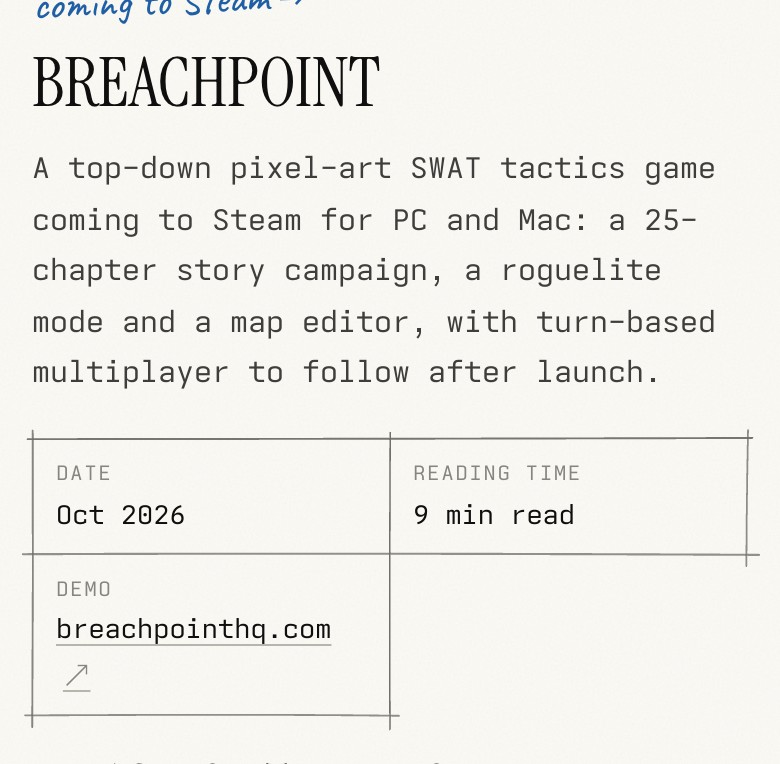
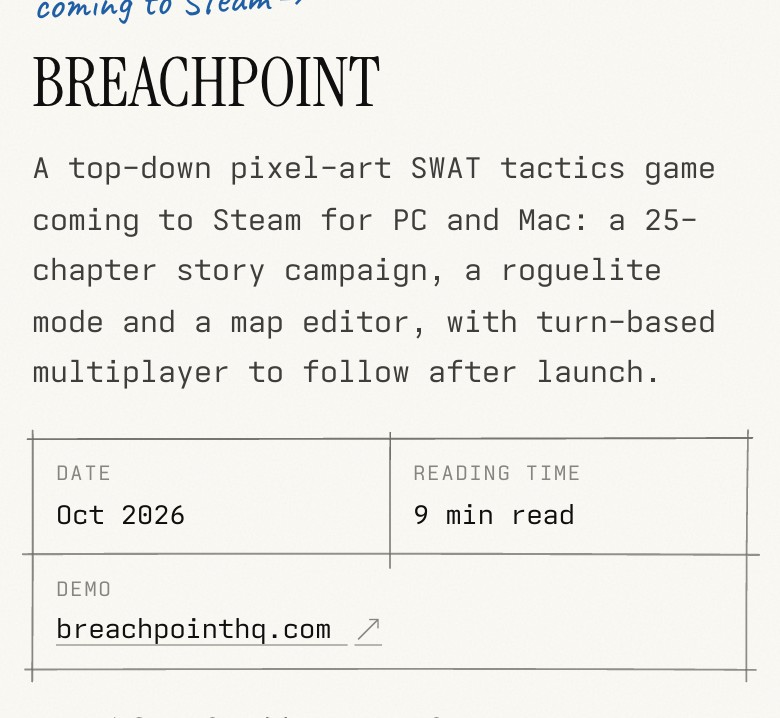
fix: a lone cell on the last row of the meta table takes the full width
The meta table wraps with flex instead of an auto-fit grid, so on phones
the third cell (Demo) spans the whole row instead of leaving blank paper
next to it.

Claude-Session: https://claude.ai/code/session_01G45mYe728vW4cAiY8iUQnr

diff --git a/src/styles/global.css b/src/styles/global.css
@@ -898,14 +898,15 @@
 
   /* ---------- facts grid: ruled cells of small caps labels and values ---------- */
   .m-meta {
-    display: grid;
-    grid-template-columns: repeat(auto-fit, minmax(150px, 1fr));
+    display: flex;
+    flex-wrap: wrap;
     gap: 1px;
     margin: 0;
     padding: 1px;
   }
-  /* each cell draws its own rules, so a half-empty last row stays blank paper */
+  /* cells wrap and the ones left on the last row stretch to the full width */
   .m-meta > div {
+    flex: 1 1 150px;
     min-width: 0;
     padding: 8px 11px;
     outline: 1px solid var(--color-rule);
